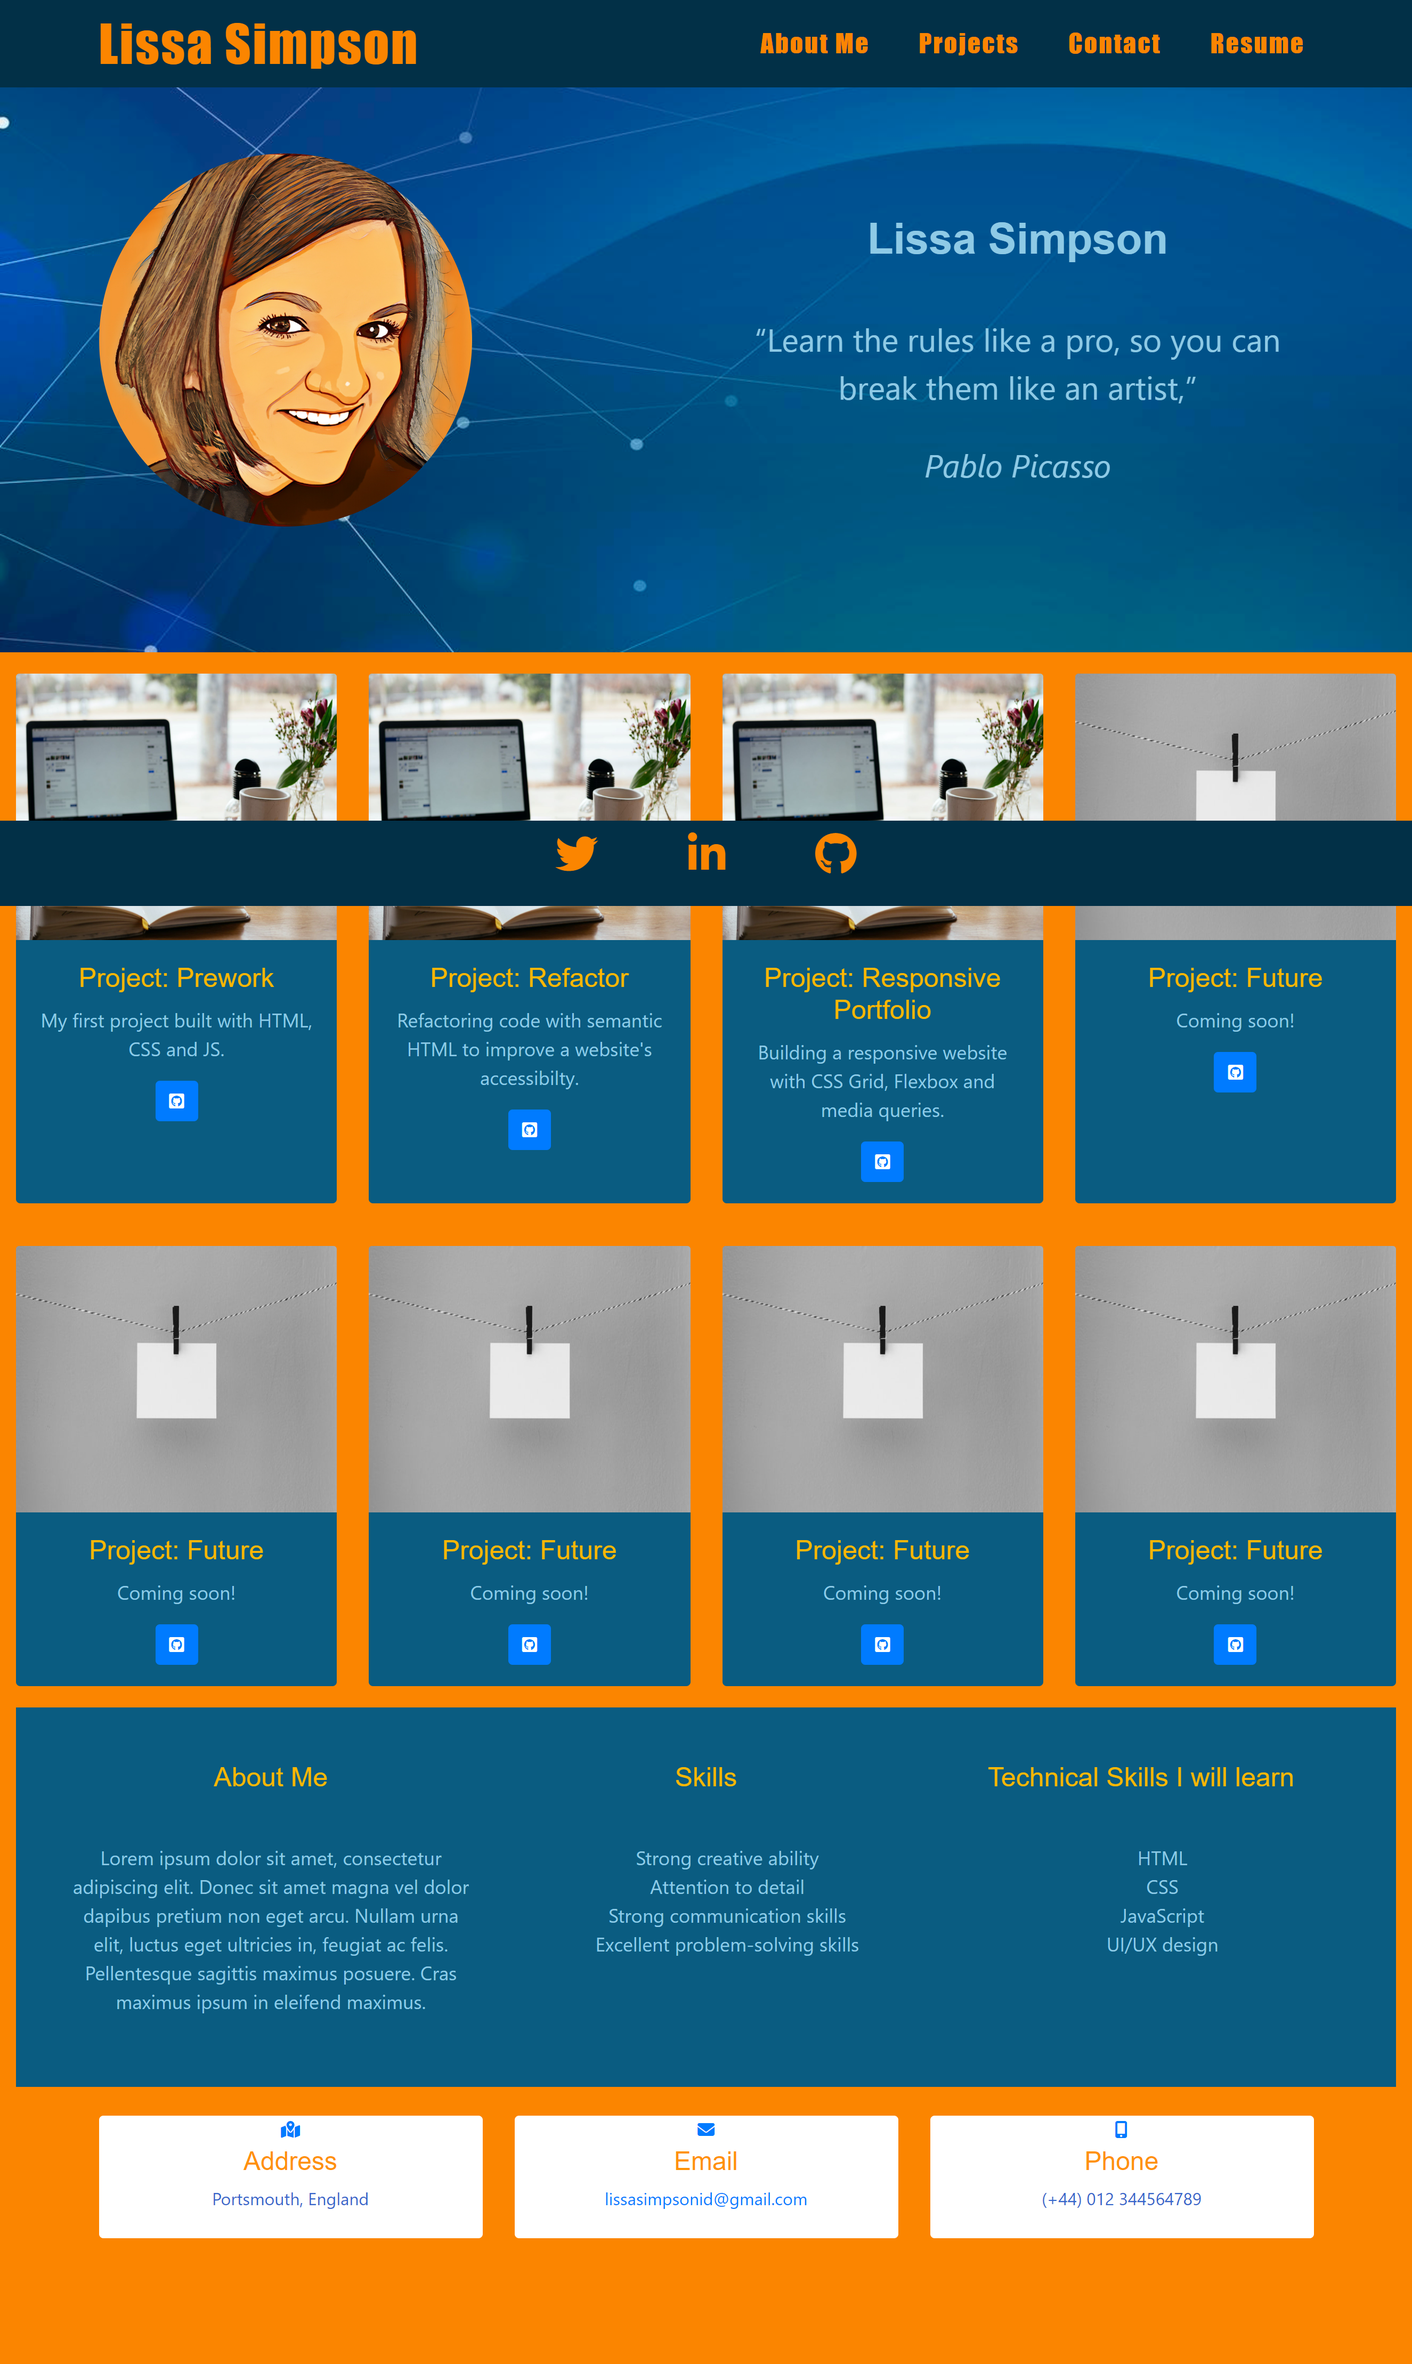
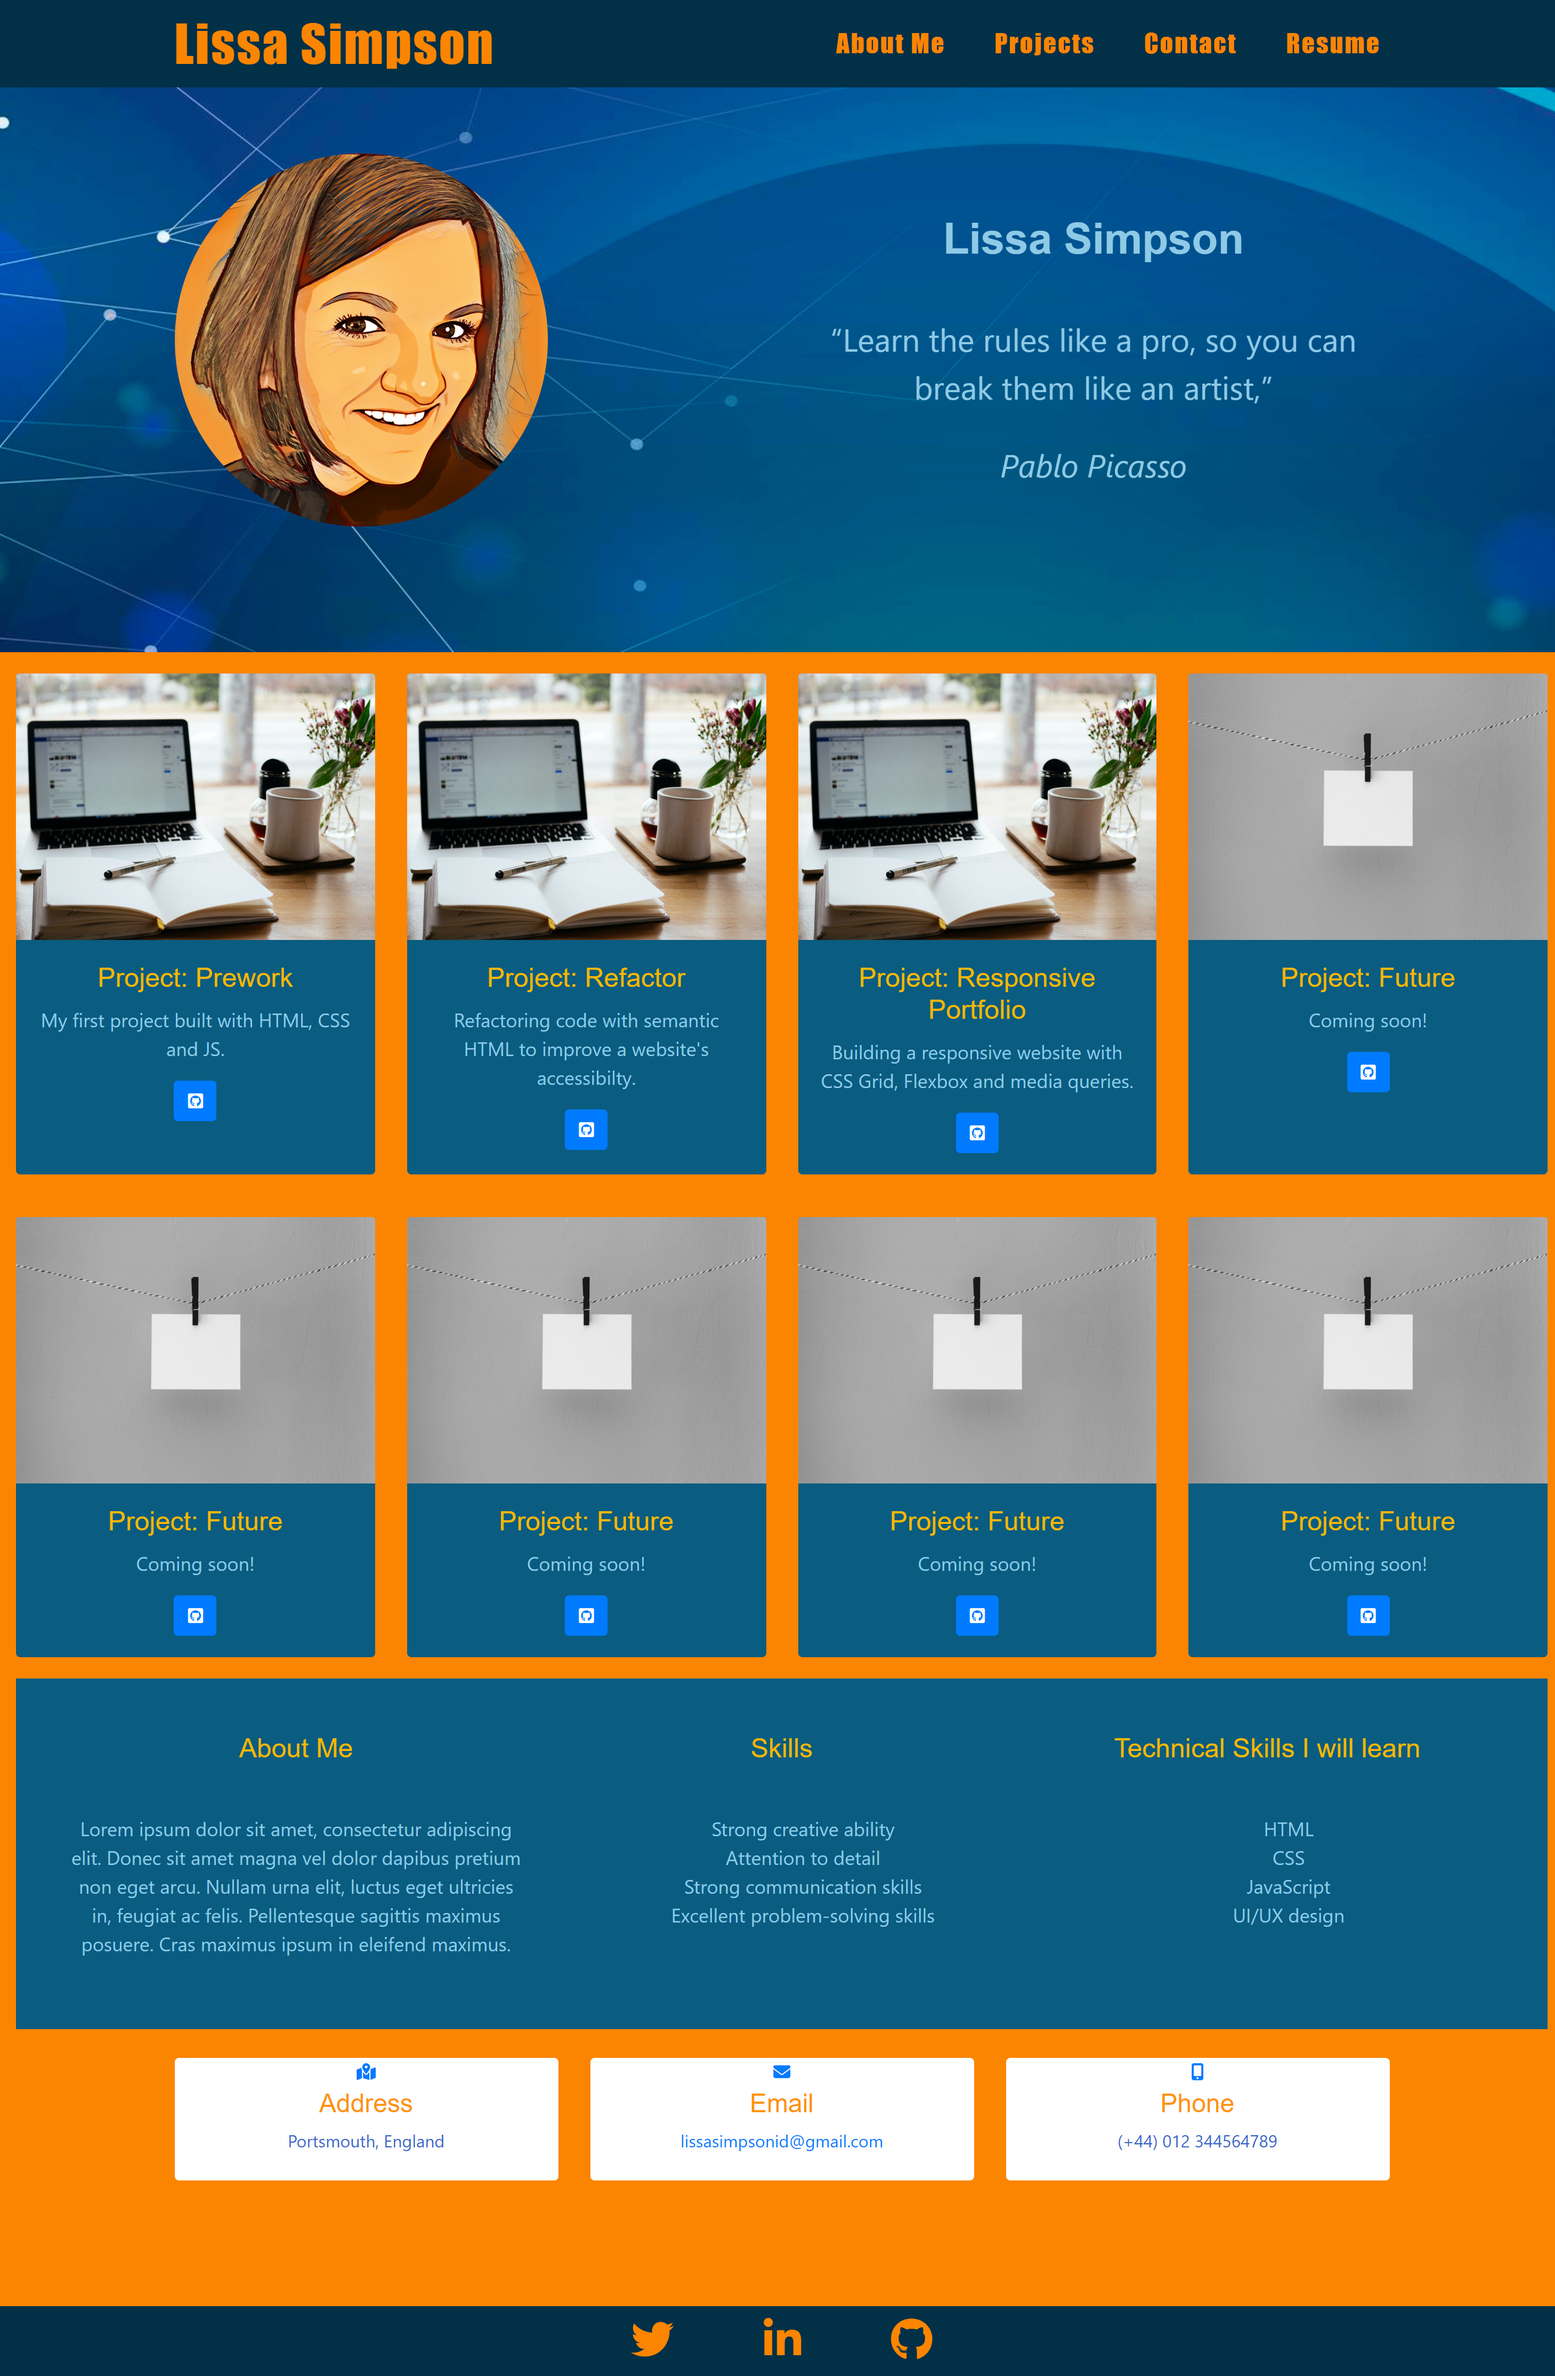
Added to about page and centered components.

diff --git a/src/Components/Contact/Contact.js b/src/Components/Contact/Contact.js
@@ -15,60 +15,79 @@ import { FaMap } from "react-icons/fa";
 function Contact() {
   return (
     <Container id="contactBox">
-    <body>
-      <h2
-        className="title-font font-semibold text-yellow text-center"
-        style={{ padding: "10px" }}
-      >
-        We'd love to hear from you
-      </h2>
-      <p className="text-center">
-        If you would like us to work with you on your next project, please feel free to get in touch and tell us about what you’d like to achieve.
-      </p>
-      <div className="text-center">
-        <p>
-          <FaEnvelope style={{ color: "#1DA1F2", marginRight: "10px" }} /> 
-          <a onClick="javascript:window.open('mailto:lissasimpsonid@gmail.com', 'mail');event.preventDefault()" href="mailto:lissasimpsonid@gmail.com">lissasimpsonid@gmail.com</a>
+      <body>
+        <h2
+          className="title-font font-semibold text-yellow text-center"
+          style={{ paddingTop: "50px", fontSize: "50px" }}
+        >
+          We'd love to hear from you!
+        </h2>
+        <p
+          className="text-center"
+          style={{ padding: "40px", fontSize: "30px" }}
+        >
+          If you would like us to work with you on your next project, please get
+          in touch and tell us about what you’d like to achieve.
         </p>
-        <p>
-          <FaPhone style={{ color: "#1DA1F2", marginRight: "10px" }} />
-          <Link to="tel:07717824584">Call Me</Link>
-        </p>
-        <p>
-          <FaMap style={{ color: "#1DA1F2" }} /> Portsmouth, UK
-        </p>
+        <div className="text-center">
+          <p style={{ fontSize: "25px" }}>
+            <FaEnvelope style={{ color: "#1DA1F2", marginRight: "10px" }} />
+            <a
+              onClick="javascript:window.open('mailto:lissasimpsonid@gmail.com', 'mail');event.preventDefault()"
+              href="mailto:lissasimpsonid@gmail.com"
+            >
+              lissasimpsonid@gmail.com
+            </a>
+          </p>
+          <p style={{ fontSize: "25px" }}>
+            <FaPhone style={{ color: "#1DA1F2", marginRight: "10px" }} />
+            <Link to="tel:07717824584">Call Me</Link>
+          </p>
+          <p style={{ fontSize: "25px" }}>
+            <FaMap
+              style={{
+                color: "#1DA1F2",
+                marginRight: "10px",
+                fontSize: "40px",
+              }}
+            />{" "}
+            Portsmouth, UK
+          </p>
 
-        <p className="text-center">
-       Or connect with us:
-      </p>
+          <p
+            className="text-center"
+            style={{ fontSize: "25px", paddingTop: "30px" }}
+          >
+            Or connect with us:
+          </p>
 
-        <div className="btnContainer" style={{ padding: "10px" }}>
-          <div className="col-md-12 text-center">
-            <Button
-              className="contactBtn"
-              style={{ fontSize: "0.5rem", marginRight: "2rem" }}
-              href="https://twitter.com/LissaSimpson17"
-            >
-              <FaTwitter style={{ fontSize: "1rem" }} />
-            </Button>{" "}
-            <Button
-              className="contactBtn"
-              style={{ fontSize: "0.5rem", marginRight: "2rem" }}
-              href="https://www.linkedin.com/in/lissasimpson/"
-            >
-              <FaLinkedin style={{ fontSize: "1rem" }} />
-            </Button>{" "}
-            <Button
-              className="contactBtn"
-              style={{ fontSize: "0.5rem", marginRight: "2rem" }}
-              href="https://github.com/lissasimp"
-            >
-              <FaGithub style={{ fontSize: "1rem" }} />
-            </Button>{" "}
+          <div className="btnContainer" style={{ padding: "10px" }}>
+            <div className="col-md-12 text-center">
+              <Button
+                className="contactBtn"
+                style={{ marginRight: "2rem" }}
+                href="https://twitter.com/LissaSimpson17"
+              >
+                <FaTwitter style={{ fontSize: "3rem" }} />
+              </Button>{" "}
+              <Button
+                className="contactBtn"
+                style={{ marginRight: "2rem" }}
+                href="https://www.linkedin.com/in/lissasimpson/"
+              >
+                <FaLinkedin style={{ fontSize: "3rem" }} />
+              </Button>{" "}
+              <Button
+                className="contactBtn"
+                style={{ marginRight: "2rem" }}
+                href="https://github.com/lissasimp"
+              >
+                <FaGithub style={{ fontSize: "3rem" }} />
+              </Button>{" "}
+            </div>
           </div>
         </div>
-        </div>
-    </body>
+      </body>
     </Container>
   );
 }

diff --git a/src/Components/About/About.js b/src/Components/About/About.js
@@ -1,6 +1,7 @@
 import React from "react";
 import profile from "../../Images/Profile.jpeg";
 import Row from "react-bootstrap/Row";
+import Col from "react-bootstrap/Col";
 import Container from "react-bootstrap/Container";
 
 import "../About/About.css";
@@ -8,44 +9,49 @@ import "../About/About.css";
 function About() {
   return (
     <>
-      <section
-        className="homeContainer container-fluid align-items-center"
-        style={{ marginTop: "6rem", marginLeft: "auto", marginRight: "auto" }}
-      >
-        <div className="about">
-          <Container>
-            <Row>
-              <div className="col-sm-12 col-lg-5" style={{}}>
+      <section class="section mt-5">
+        <Container>
+          <Row className="justify-content-md-center">
+            <div class="col-md-4 ">
+                <img alt="profile" class="img-fluid" src={profile} width="500px"
+                style={{
+                  height: "90%",
+                  // justifyContent: "center",
+                  borderRadius: "50px",
+                  // filter: "grayscale(100%)",
+                  marginRight: "4rem",
+                  marginTop: "4rem",
+                  marginBottom: "50px"
+                }}
+                  />
+            </div>
+            <div class="col-md-6 col-lg-6 ml-auto d-flex justify-content-md-center mt-4 mt-md-0">
+              <div style={{ marginLeft: "3rem"}}>
                 <h1 className="homeTitle" style={{ fontSize: "3rem" }}>
                   <span style={{ color: "orange" }}>Lissa Simpson</span>
                 </h1>
                 <h2 style={{ fontSize: " 2rem" }}>Front End Developer </h2>
-                <p style={{ fontSize: " 1rem" }}>I am a passionate junior front-end developer with a drive to create engaging and user-friendly web experiences. My motivation as a professional stems from my love for coding and the satisfaction I gain from turning ideas into tangible digital solutions. In each project, I aim to deliver high-quality front-end development that not only meets the client's requirements but also exceeds user expectations by creating intuitive and visually appealing interfaces. I am fueled by the opportunity to solve problems creatively and enjoy analyzing complex challenges to implement innovative solutions. As a junior front-end developer, my end goal is to contribute to projects that have a positive impact on users' lives, whether it's improving accessibility, enhancing productivity, or providing innovative solutions to real-world problems. </p>
+                <p style={{ fontSize: " 1rem" }}>
+                  I am a passionate junior front-end developer with a drive to
+                  create engaging and user-friendly web experiences. My
+                  motivation as a professional stems from my love for coding and
+                  the satisfaction I gain from turning ideas into tangible
+                  digital solutions. In each project, I aim to deliver
+                  high-quality front-end development that not only meets the
+                  client's requirements but also exceeds user expectations by
+                  creating intuitive and visually appealing interfaces. I am
+                  fueled by the opportunity to solve problems creatively and
+                  enjoy analyzing complex challenges to implement innovative
+                  solutions. As a junior front-end developer, my end goal is to
+                  contribute to projects that have a positive impact on users'
+                  lives, whether it's improving accessibility, enhancing
+                  productivity, or providing innovative solutions to real-world
+                  problems.{" "}
+                </p>
               </div>
-
-              <div className="col-sm-12 col-lg-6">
-                <img
-                  src={profile}
-                  className="profileImg"
-                  alt=""
-                  width="300px"
-                  height="300px"
-                  // horizontalAlign="center"
-
-                  style={{
-                    height: "90%",
-                    // justifyContent: "center",
-                    borderRadius: "50px",
-                    // filter: "grayscale(100%)",
-                    marginRight: "4rem",
-                    marginTop: "3rem",
-                    marginBottom: "50px"
-                  }}
-                ></img>
-              </div>
-            </Row>
-          </Container>
-        </div>
+            </div>
+          </Row>
+        </Container>
       </section>
     </>
   );

diff --git a/src/Components/Projects/Projects.js b/src/Components/Projects/Projects.js
@@ -27,16 +27,15 @@ function ProjectCard() {
         {/* <div className="cards"> */}
         <Row xs={1} md={2} lg={3} className="g-3 ">
           {projects.map((props) => (
-            <Col className="">
-              <Card.Body key={props.id}>
-                <Card
+              <Card.Body key={props.id} >
+                <Card className="d-flex justify-content-center"
+
                   style={{
                     width: "26rem",
-                    height: "24rem",
+                    height: "26rem",
                     borderRadiusTop: "20px",
                     border: "solid 4px orange",
-                    marginTop: "2rem",
-                    marginBottom: "0.5rem",
+       
                     backgroundColor: "black",
                     margin: "0 auto",
                     display: "flex",
@@ -44,21 +43,25 @@ function ProjectCard() {
                     alignItems: "center",
                   }}
                 >
+                  <div className="inner " >
                   <Card.Img
+                  variant="top"
                     src={process.env.PUBLIC_URL + props.image}
                     alt={props.name}
-                    className="imageProject img card-img-top"
-                    width="200px"
-                    height="360px"
-                    style={{ borderTop: "20px" }}
+                    style={{opacity: "0.3"}}
+                    // className="imageProject img card-img-top "
+                    // width="200px"
+                    // height="360px"
                   />
+                  </div>
                   <div className="card-img-overlay d-flex flex-column justify-content-center">
+
                     <Card.Title
                       style={{
                         color: "orange",
                         fontWeight: "700",
                         fontSize: "1.6rem",
-                        margin: "0",
+                        marginBottom: "0.5rem"
                       }}
                     >
                       {props.name}
@@ -109,7 +112,6 @@ function ProjectCard() {
                   </div>
                 </Card>
               </Card.Body>
-            </Col>
           ))}
         </Row>
         {/* </div> */}

diff --git a/src/Components/About/About.css b/src/Components/About/About.css
@@ -3,30 +3,19 @@
   font-size: 200 !important;
 }
 
-.homeContainer {
-  margin-top: 10rem;
-  margin-bottom: 4rem;
-  margin-left: 6rem;
-  text-align: left;
-}
-
 .row {
   align-items: center;
   /* padding-left: 15%;
   padding-right: 0%; */
 }
 
-.about {
-  align-items: center;
-  padding-left: 15%;
-  padding-right: 0%;
-}
+.i
 
-.col-lg-6 {
-  display: flex;
-  justify-content: center;
-  padding: 0;
-}
+/* .about {
+  align-items: center;
+  padding: none;
+} */
+
 
 h2 {
   color: #fff !important;
@@ -34,34 +23,4 @@ h2 {
 
 p {
   color: #fff !important;
-}
-
-.btnContainer {
-  padding-top: 20px;
-}
-
-.smBtn {
-  margin-right: 13px;
-  border-radius: 15px;
-}
-/* iPads/Tablets */
-@media (max-width: 768px) {
-  .profileImg {
-    position: relative !important;
-    padding-top: 30px;
-  }
-  /* Mobile Devices */
-}
-@media (max-width: 480px) {
-  .profileImg {
-    position: relative !important;
-    padding-top: 30px;
-  }
-}
-/* Small screens/laptops */
-@media (max-width: 1024px) {
-  .profileImg {
-    position: relative !important;
-    padding-top: 30px;
-  }
 }

diff --git a/src/App.css b/src/App.css
@@ -3,17 +3,21 @@ body {
   }
     
   #navbar {
+    /* display: flex; */
     padding: 20px;
     background-color: #0f0f0f;
     border-bottom: 4px solid orange;
+    /* justify-content: space-between; */
   }
 
   
   #links {
+    /* display:flex; */
     color: orange;
     font-size: 25px;
     margin-right: 30px;
-    float: right;
+    padding-left: auto;
+    float: right ;
   }
   
   #links:hover {
@@ -38,5 +42,8 @@ body {
     margin:10px;
   }
 
+.inner {
+  overflow: hidden;
+}
 
- 
+
